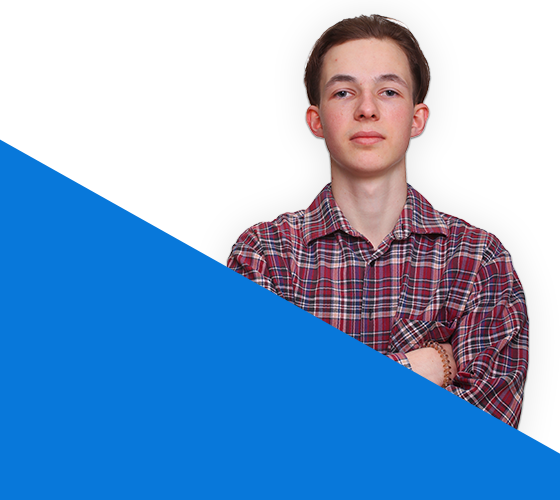
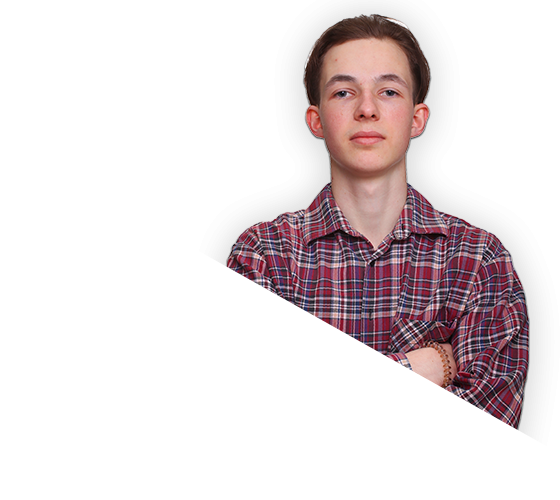
mobile style

diff --git a/index.html b/index.html
@@ -68,29 +68,33 @@
                     <div class="section__image-me">
                         <img src="./assets/images/backgroundIm.png" alt="">
                     </div>
-                    <div class="section__image-me_mobil">
-                        <img src="./assets/images/mobil-bg.png" alt="">
-                        <!-- <div class="section__info-contacts info-contacts_mobil">
-                            <p class="contacts__title">Контакты:</p>
-                            <ul class="contacts__list">
-                                <li class="contacts__list_item">Telegram: <a href="https://t.me/SemenLebedko" target="_blank">https://t.me/SemenLebedko</a></li>
-                                <li class="contacts__list_item">Email: mamontedinorog@yandex.by</li>
-                            </ul>
-                        </div>
-                        <div class="section__info-using info-using__mobil">
-                            <p class="using__title">Использую</p>
-                            <ul class="using__list">
-                                <li class="using__list_item" data-title="Figma"><img src="./assets/icons/figmaLogo.png" alt="Logo Figma"></li>
-                                <li class="using__list_item" data-title="Photoshop"> <img src="./assets/icons/adobePhotoshopLogo.png" alt="Logo Adobe Photoshop"></li>
-                                <li class="using__list_item" data-title="AdobeXd"><img src="./assets/icons/adobeXdLogo.png" alt="Logo AdobeXd"></li>
-                                <li class="using__list_item" data-title="VSCode"><img src="./assets/icons/visualLogo.png" alt="Logo Visual Studio Code"></li>
-                                <li class="using__list_item" data-title="JavaScript"><img src="./assets/icons/jsLogo.png" alt="Logo Java Script"></li>
-                                <li class="using__list_item" data-title="Scss"><img src="./assets/icons/scssLogo.png" alt="Logo Scss"></li>
-                                <li class="using__list_item item-WebPack" data-title="WebPack"><img src="./assets/icons/webpackLogo.png" alt="Logo WebPack"></li>
-                            </ul>
-                        </div> -->
-                    </div>
                 </div>
+            </div>
+        </section>
+        <section class="section__mobile">
+            <img class="img__mobile" src="./assets/images/mobil-bg.png" alt="">
+            <div class="section__info-contacts info-contacts_mobil">
+                <p class="contacts__title">Контакты:</p>
+                <ul class="contacts__list">
+                    <li class="using__list_item" data-title="Telegram">
+                        <img class="list__img" src="./assets/icons/telegramLogo.png"><a href="https://t.me/SemenLebedko" target="_blank"></a></img>
+                    </li>
+                    <li class="using__list_item" data-title="Email">
+                        <img class="list__img" src="./assets/icons/yandexLogo.png"><a href="mailto:mamontedinorog@yandex.by" target="_blank"></a></img>
+                    </li>
+                </ul>
+            </div>
+            <div class="section__info-using info-using__mobil">
+                <p class="using__title">Использую</p>
+                <ul class="using__list">
+                    <li class="using__list_item" data-title="Figma"><img src="./assets/icons/figmaLogo.png" alt="Logo Figma"></li>
+                    <li class="using__list_item" data-title="Photoshop"> <img src="./assets/icons/adobePhotoshopLogo.png" alt="Logo Adobe Photoshop"></li>
+                    <li class="using__list_item" data-title="AdobeXd"><img src="./assets/icons/adobeXdLogo.png" alt="Logo AdobeXd"></li>
+                    <li class="using__list_item" data-title="VSCode"><img src="./assets/icons/visualLogo.png" alt="Logo Visual Studio Code"></li>
+                    <li class="using__list_item" data-title="JavaScript"><img src="./assets/icons/jsLogo.png" alt="Logo Java Script"></li>
+                    <li class="using__list_item" data-title="Scss"><img src="./assets/icons/scssLogo.png" alt="Logo Scss"></li>
+                    <li class="using__list_item item-WebPack" data-title="WebPack"><img src="./assets/icons/webpackLogo.png" alt="Logo WebPack"></li>
+                 </ul>
             </div>
         </section>
         <section class="section__work" id="section__work">

diff --git a/assets/css/style.css b/assets/css/style.css
@@ -448,8 +448,9 @@ body.noscroll {
     content: '';
 }
 
-.section__image-me_mobil {
+.section__mobile {
     display: none;
+    margin-bottom: 50px;
 }
 
 .loader:after {
@@ -543,15 +544,29 @@ body.noscroll {
     .section__info-using {
         display: none;
     }
-    .section__image-me_mobil .section__info-using,
-    .section__image-me_mobil .section__info-contacts {
+    .section__mobile .section__info-using,
+    .section__mobile .section__info-contacts {
         display: block;
+        max-width: 280px;
+        transform: translateY(-294px);
+        padding-left: 15px;
+        margin-top: 0;
     }
-    .section__image-me_mobil img {
-        transform: translateY(-70px);
+    .section__mobile .section__info-contacts .contacts__list {
+        display: flex;
+        gap: 15px;
+        padding-top: 10px;
     }
-    .section__image-me_mobil {
+    .section__mobile .img__mobile {
+        width: 100%;
+        transform: translateY(-77px) scale(1.6);
+    }
+    .section__mobile {
         display: block;
+        display: block;
+        height: 345px;;
+        width: 100%;
+        position: relative;
     }
     .section__image-me {
         display: none;
@@ -606,6 +621,13 @@ body.noscroll {
     .span__block.active-span .span__block_item:nth-child(1)
     {
         width: 8px;
+    }
+  }
+
+  @media screen and (max-width: 375px) {
+    .section__mobile .section__info-using,
+    .section__mobile .section__info-contacts {
+        max-width: 200px;
     }
   }
 
